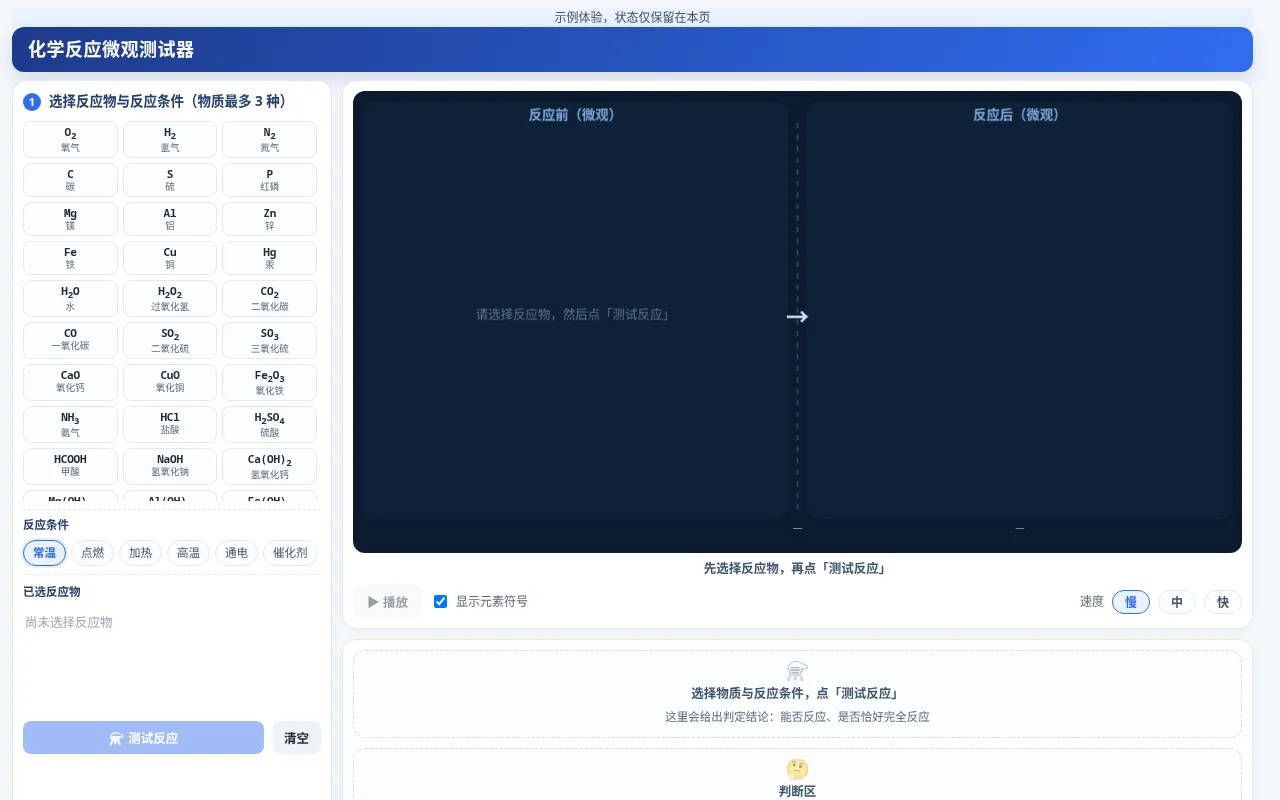
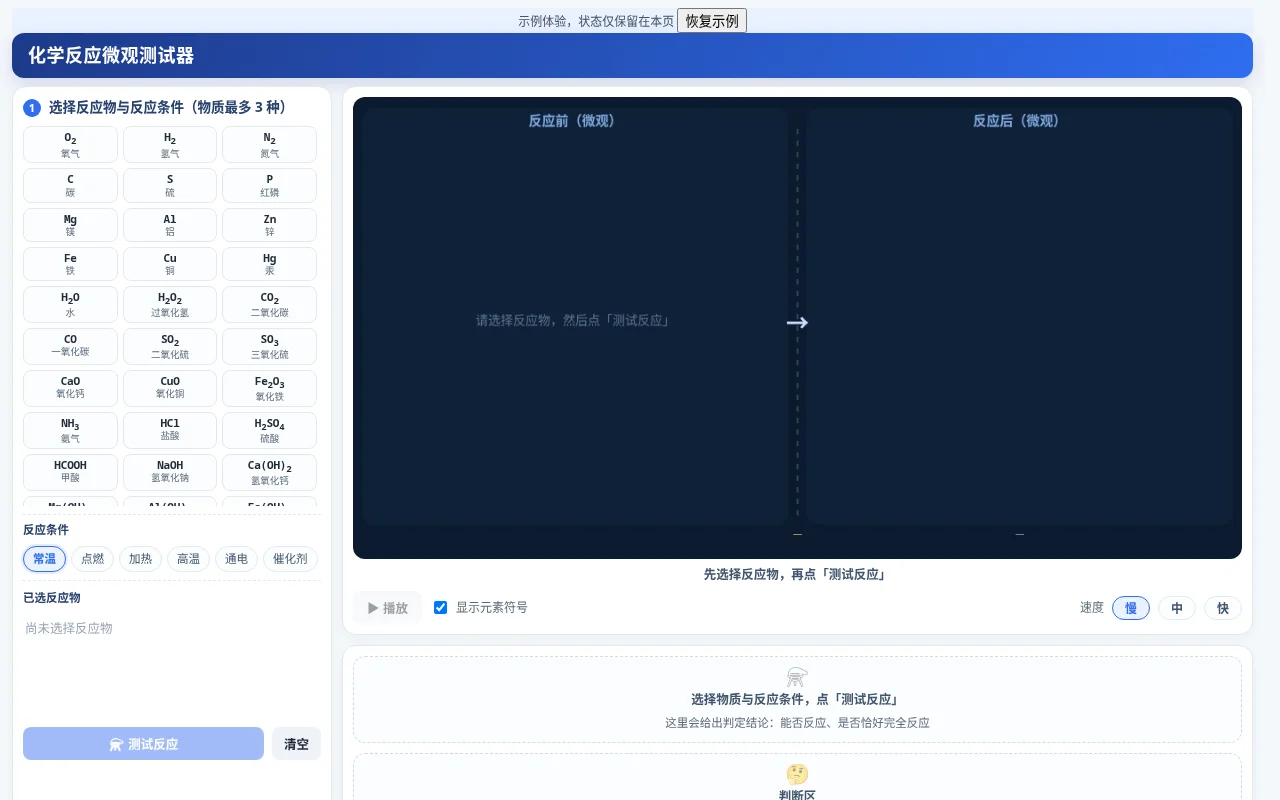
Restore showcase initial state

diff --git a/wb1024-c342-8134c06a/showcase/preview.html b/wb1024-c342-8134c06a/showcase/preview.html
@@ -268,7 +268,7 @@
 </style>
 </head>
 <body>
-<div style="text-align:center;background:#eaf2ff;color:#43546a;font-size:12px">示例体验，状态仅保留在本页</div>
+<div style="text-align:center;background:#eaf2ff;color:#43546a;font-size:12px">示例体验，状态仅保留在本页 <button id="resetDemo" type="button">恢复示例</button></div>
 <div class="wrap">
   <header class="hd">
     <h1>化学反应微观测试器</h1>
@@ -1560,6 +1560,12 @@ updatePhase();
 draw();
 window.addEventListener('resize',()=>{fitCanvas();draw();});
 requestAnimationFrame(loop);
+document.getElementById('resetDemo').onclick=()=>{
+  selected.clear(); conds=new Set(['常温']); speed=0.28; showLabel=true;
+  document.getElementById('showLabel').checked=true;
+  document.querySelectorAll('.spd').forEach(x=>x.classList.toggle('on',parseFloat(x.dataset.v)===0.28));
+  renderConds(); onSelChange();
+};
 </script>
 </body>
 </html>
